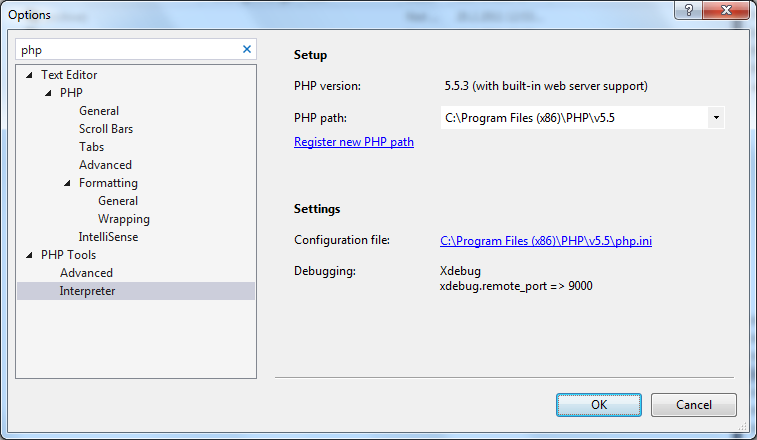
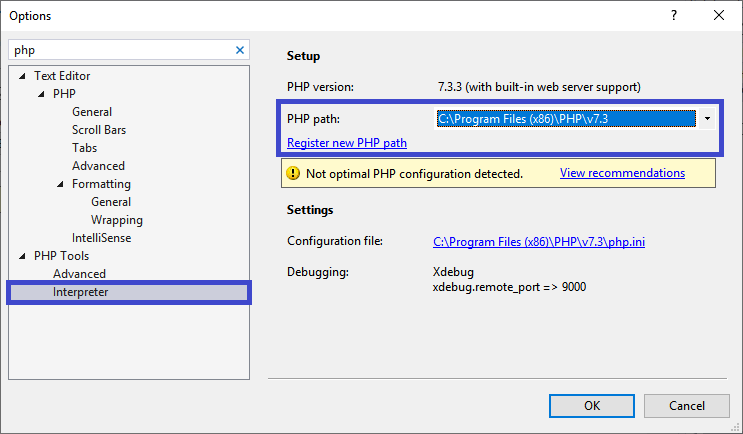
installation section

diff --git a/docs/vs/Installation/install-php.md b/docs/vs/Installation/install-php.md
@@ -1,46 +1,63 @@
 /*
 Title: Installing PHP
-Description: How to install PHP
+Description: How to install PHP with PHP Tools for Visual Studio
 */
 
-# Installing PHP
-When running a PHP project locally, it is required to have PHP installed. In order to enable the debugging features, the **Xdebug** PHP extension has to be properly enabled.
+# Installing PHP with PHP Tools for Visual Studio
 
-## Automatic PHP installation
+PHP is required in order to run your PHP project locally. Additionally, in order to get the debugging functionality working, the PHP's `Xdebug` extension is required as well. There are several ways of getting the project ready to run.
 
-In case the user does not have PHP with **Xdebug** installed or configured properly, PHP Tools offer quick installation from **Microsoft Web Platform Installer**.
+## Choosing PHP Version
 
-Every time a user starts a project (by default <kbd>F5</kbd> or <kbd>Ctrl+F5</kbd>), PHP Tools automatically checks the configuration. In case of an issue, a quick configuration dialog box will appear (see below).
+Open or create a `PHP Project` and go to the project's `Properties`. Choose your desired PHP version as depicted below.
 
-![Install PHP from Web Platform installer](imgs/install-php-webpi.png)
+![Installing PHP Automatically](imgs/phpproject-properties-server.png)
 
-The first option lets the user install the latest PHP version from **Web Platform Installer** with **Xdebug** support automatically configured. The user may be asked for elevated rights. The process may require to install or update Web Platform Installer first.
+Save the properties and proceed to the automatic PHP installation either by running the project (<kbd>F5</kbd>) or by clicking onto the warning message `Issues found. Click for details and fix`.
 
-During the installation process, a command line may appear. Note that the process may take several minutes, depending on the user's network connection.
- 
- ![Install PHP from Web Platform installer](imgs/install-php-webpi-progress.png)
+<center>
 
-> **Remarks**:
-> Automatic PHP installation is not available on **Windows XP** platform.
-> User may be asked for elevated rights. In case of insufficient permissions, the process may fail.
-> The process requires access to `C:\Program Files\IIS Express\PHP\` folder and its content.
+![Installing PHP Automatically](imgs/resolving-issues.png)
 
-## Manual PHP Configuration
+</center>
 
-In case the user has configured PHP already, just open **Tools | Options | PHP Tools | Interpreter** to review and access its settings and issues.
+You'll be asked for Administrator rights and Microsoft's Web Platform Installer will proceed the installation of `PHP` already configured with the `Xdebug` extension enabling the debugging functionality.
 
- ![PHP Interpreter option](imgs/install-php-interpreter.png)
+## Existing PHP Installation
 
-The user should check whether the correct PHP installation is used, and whether the corresponding configuration file (`php.ini`) is correct. The PHP path option tells Visual Studio what PHP will be used as a default interpreter & runtime. A dialog box allows user to quickly access `php.ini` file and check & fix possible issues.
+You can set your already installed PHP to be used by Visual Studio. Go to menu `Tools | Options` and navigate to `PHP Tools / Interpreter` as depicted below.
 
-In case of a configuration issue, the user is notified with a yellow bar and a `View recommendations` button.
+![PHP Interpreter option](imgs/install-php-interpreter.png)
 
- ![Not optional configuration detected](imgs/install-php-options.png)
+In the dialog you can choose a custom directory with `php.exe` program and optionally fix any of its configuration issues.
 
- ![Issues dialog](imgs/install-php-options-issues.png)
+<center>
 
-> **Note**: location of `php.ini` is determined in several steps, according to PHP behavior. If the location is not correct, please check the following:
+![Issues dialog](imgs/install-php-options-issues.png)
+
+</center>
+
+> Note this option may not be able to configure `Xdebug` for you properly.
+
+Then, in order to use the specified PHP version by your actual PHP project, go to project properties and choose your configured PHP directory.
+
+> **Note**: PHp Tools will check and analyze the PHP configuration file `php.ini`. The location of `php.ini` is determined in several steps, according to the PHP behavior. If the location is not correct, please check the following:
 >
 > - The system environment variable `PHPRC` forces PHP to use `php.ini` in specified location. Removing this environment variable is recommended.
 > - PHP looks for `php.ini` in its directory. Ensure the `php.ini` file exists.
 > - PHP specifies several other locations, such as system registry. Follow [http://php.net/manual/en/configuration.file.php](http://php.net/manual/en/configuration.file.php) for more information.
+
+## Using a Remote PHP Server
+
+It is possible to run your projects on a remote machine or a virtualized environment such as a docker container.
+
+Setup your remote machine with your PHP and Xdebug configurations, go to the PHP project properties and choose the custom server as depicted below. Enter the remote machine URL and start your project.
+
+![Issues dialog](imgs/phpproject-properties-custom.png)
+
+> Note: make sure your PHP project gets deployed onto the remote machine upon starting the project, or the project directory is mapped to the remote machine's directory.
+
+## Related Links
+
+- [Configuring Xdebug](/debugging/configuring-xdebug)
+- [New Project from Existing Code](/project/from-existing-code)

diff --git a/docs/vs/Installation/index.md b/docs/vs/Installation/index.md
@@ -3,56 +3,42 @@ Title: Installation Instructions
 Description: How to install PHP Tools for Visual Studio
 */
 
-# Installation Instructions
+## Basic Installation
 
-There are several ways of installing PHP Tools for Visual Studio. The user can choose any method they like. Please, note:
+In case you have the Microsoft Visual Studio, you can jump directly to its **Manage Extensions** dialog and search for the **PHP Tools for Visual Studio**.
 
-- Administrator access is always required. Since version 1.16, PHP Tools is directly installed for all users.
+![Visual Studio Extensions](imgs/install-from-vs.png)
 
-- Microsoft Visual Studio must be previously installed on your system, in order to be able to install PHP Tools. All editions of Visual Studio are supported except the Express ones. You can download the free [Visual Studio Community Edition](https://www.visualstudio.com/en-us/products/visual-studio-community-vs.aspx).
+Once downloaded, you'll be prompted to close your Visual Studio. Package will be installed and your Visual Studio configured for the PHP development. After starting the Visual Studio next time, you can proceed to the [product activation](activation) and [get started](/vs/).
 
-- To finish PHP Tools installation, close and restart Visual Studio.
+More detailed steps follows:
 
-- After installation, access PHP Tools from within Visual Studio's IDE. The installation does not create any program groups, Start Menu items, or desktop shortcuts.
+## Prerequisites
 
-## a) Download from the Microsoft Visual Studio Gallery
+- **Administrator access**. Please ensure you can provide administrator access to your Hard Drive since the installation package copies files to system's *AppData*. For Visual Studio 2010 up to 2015, you'll be queried to allow access to system's *Program Files*.
+- **Microsoft Visual Studio**. Install [Microsoft Visual Studio](https://visualstudio.microsoft.com/vs/). Choose the **Community** edition as a **free** option. Supported editions are: *Comunity (free)*, *Professional*, *Enterprise* or higher.
 
-![Visual Studio Gallery](imgs/installation-vsgallery.png)
+<center>
 
-The .msi from the [Microsoft Visual Studio Gallery](http://visualstudiogallery.msdn.microsoft.com/6eb51f05-ef01-4513-ac83-4c5f50c95fb5) contains the latest stable version. 
+![Visual Studio Extensions](imgs/visualstudio-small.png)
 
-1) Download PHP Tools for Visual Studio
+</center>
 
-![Download](imgs/download_marketplace.png)
+## Download and Offline installation
 
-2) Run the setup package and follow the on-screen instructions
+The software's installation package can be downloaded manually from several locations. Downloaded package can be used for an offline installation.
 
-The .msi determines which IDEs are installed on your machine, and gives you the option of installing to all IDEs or only to a specific one.
+- [Visual Studio Marketplace](https://marketplace.visualstudio.com/search?term="php%20tools"&target=VS&vsVersion=). Choose the edition according to the version of your Visual Studio.
+- [DEVSENSE.com](https://www.devsense.com/en/download#vs). Download any version or any update of **PHP Tools for Visual Studio** from our website.
 
-![MSI Installer](imgs/installation-msi.png)
+1. Close *Visual Studio*
+2. Run the installation package downloaded from the location above and follow the instructions.
+3. Restart your *Visual Studio*.
 
-## b) Download from devsense.com
+## Activation
 
-As well as Visual Studio's gallery, [Devsense's Download Page](https://www.devsense.com/download) contains the latest stable installer, the version archive and changelog.
+The product contains both full featured 30 day trial and the full product. Please see the [product activation](activation) for more details.
 
-1) Download PHP Tools for Visual Studio
+## Update
 
-> You can download Stable or Preview versions from here. Preview versions are not production-ready. They are intended for testing purposes and/or to try upcoming features. All preview versions of the software must be used at your own risk, but any feedback you can give us is appreciated.
-
-2) Run the package and follow the instructions
-
-## c) Visual Studio Extension Manager 
-
-![Visual Studio Gallery](imgs/installation-extension-manager.png)
-
-To download directly from Visual Studio Extension Manager:
-
-1) Open your Visual Studio
-
-2) Navigate to `Tools | Extensions and Updates`
-
-3) Click **Online Gallery** and search for **PHP Tools**. Visual Studio will show you the available products
-
-4) Download and install.
-
-> **Note**: you will have to close and restart Visual Studio to finish the installation.
+The product updates are checked automatically. *Visual Studio* will notify you about updates available. Please see [update](updating the product) for more information.

diff --git a/docs/vs/Installation/activation.md b/docs/vs/Installation/activation.md
@@ -5,9 +5,9 @@ Description: Activate PHP Tools for Visual Studio
 
 # Product Activation
 
-PHP Tools add-in comes with a trial software. You can enable the trial first to see whether PHP Tools suits you. Enabling the trial or activating the software using a purchased license key gives you the full developers features.
+PHP Tools for Visual Studio comes with a trial license. You can enable the trial first to see whether PHP Tools suits you. Enabling the trial or activating the software using a purchased license key gives you the full developers features.
 
-## Activate trial
+## Activate Trial
 
 You can start with the free 30-day trial and evaluate the software. The trial can be started whenever you want, until then only the set of basic features will work. PHP Tools add-in asks to start the trial when Visual Studio starts (see below). 
 
@@ -19,19 +19,19 @@ A dialog box appears with each new instance of Visual Studio, unless the trial h
 
 Trial license can also be activated from the Visual Studio menu. Click **Help**, and then **Activate PHP Tools for Visual Studio** to reopen the activation dialog.
 
-## Obtain your license key
+## Obtain your License Key
 
 The license key can be purchased online from [Pricing&Buy page](http://www.devsense.com/products/php-tools/pricing). See [License Comparison](http://www.devsense.com/products/php-tools/pricing#license-comparison) for details about available pricing and licenses.
 
 > **Note**: The license key is sent by our authorized vendor **Avangate**. 
 
-## Enter license Key
+## Enter License Key
 
 > With a purchased license key, you may activate your copy of **PHP Tools for Visual Studio**. The product can be activated from the Visual Studio menu. Click **Help** | **Activate PHP Tools for Visual Studio** to open the activation dialog. 
 
 ![Enter license key](imgs/activation-enter-key.png)
 
-## Subscription status
+## Subscription Status
 
 To review the status of your maintenance subscription, go to `Help | PHP Tools for Visual Studio`.
 

diff --git a/docs/vs/Installation/uninstall.md b/docs/vs/Installation/uninstall.md
@@ -5,17 +5,22 @@ Description: Uninstall PHP Tools for Visual Studio
 
 # Uninstall
 
-## Uninstall version 1.11 and higher
+## Visual Studio 2017 or higher
 
-PHP Tools for Visual Studio is installed through Windows Installer. Use Programs and Features in Windows Control Panel for repair, change or uninstall. The extension is listed in Visual Studio in `Tools | Extension Manager` without the option to uninstall.
+Go to Visual Studio's **Extension Manager** in `Tools | Extensions and Updates` (Visual Studio 2017) or `Extensions | Manage Extensions` (Visual Studio 2019 or newer).
+
+![Uninstall from VS](imgs/extension-manager-uninstall.png)
+
+Any new installation, update or removal requires restarting Visual Studio. The user is notified about that, and it is recommended to perform installations or updates while other Visual Studio instances are closed.
+
+## Visual Studio 2010 - 2015
+
+PHP Tools for Visual Studio is installed through the Windows Installer. Use **Programs and Features** in Windows Control Panel for repair, change or uninstall.
 
 ![Uninstall from Control Panel](imgs/phptools-uninstall.png)
+
+> Note: The extension is listed in Visual Studio in `Tools | Extension Manager` without the option to uninstall.
 
 ## Uninstall previous versions
 
 PHP Tools for Visual Studio versions lower than 1.11 were standard Visual Studio extension (`.vsix`). Installing, updating and removing this extension is managed through Visual Studio Extension Manager (see below).
-
-Extension Manager is available in Visual Studio, in `Tools | Extensions and Updates`.
-Any new installation, update or removal requires restarting Visual Studio. The user is notified about that, and it is recommended to perform installations or updates while other Visual Studio instances are closed.
-
-![Uninstall from Extension manager](imgs/uninstall-extension-manager.png)

diff --git a/docs/vs/Installation/update.md b/docs/vs/Installation/update.md
@@ -5,12 +5,12 @@ Description: How to update PHP Tools for Visual Studio
 
 # Update Instructions
 
-To update the add-in, you do not need to uninstall and reinstall the new version. Just download the desired version and install it. You can follow the [installation instructions](https://docs.devsense.com/en/vs/installation) or take advantage of Visual Studio Extension Manager and its Updates functionality (in Visual Studio, navigate to `Tools | Extensions and Updates`, and click **Updates**).
+To update the software, you do not need to uninstall and reinstall the new version. Just download the desired version and install it. Please follow the [installation instructions](https://docs.devsense.com/en/vs/installation) for more information.
 
-> **Note:** Make sure your subscription is active in order to be able to download the latest versions.
+> **Note:** Make sure your subscription is active in order to be able to download the latest versions of the product.
 
 ## Automatic update notification
 
-To be automatically notified about available updates, enable **Automatically check for updates** option. This can be found in the **Options** window in Visual Studio (navigate to `Tools | Options`).
+Notofication about the automatic updates are enabled by default. You can change the behavior of update notifications in Visual Studio `Tools | Options` menu. In the dialog, navigate to `Environment | Extensions and Updates` and tick or untick **Automatically check for updates** option.
 
 ![Automatically check for updates](imgs/update-notifications-settings.png)
